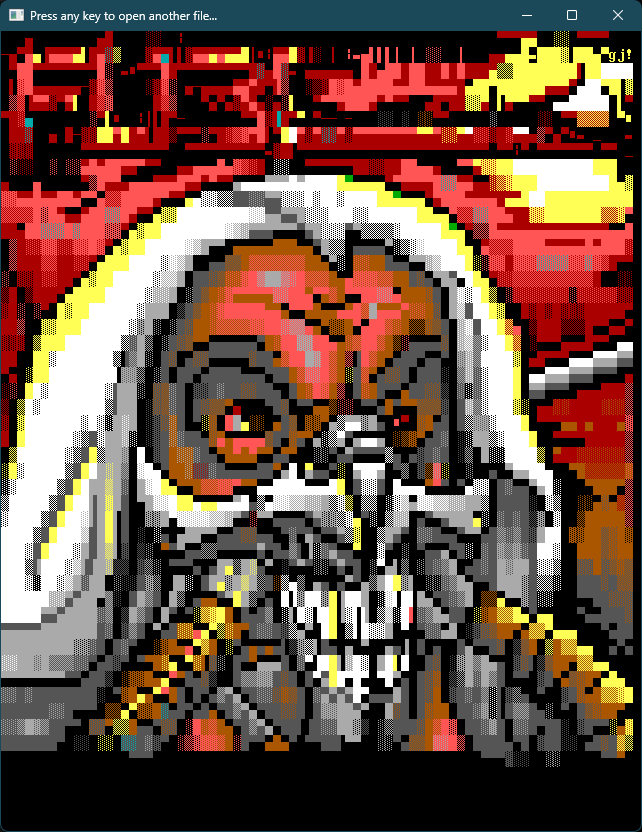
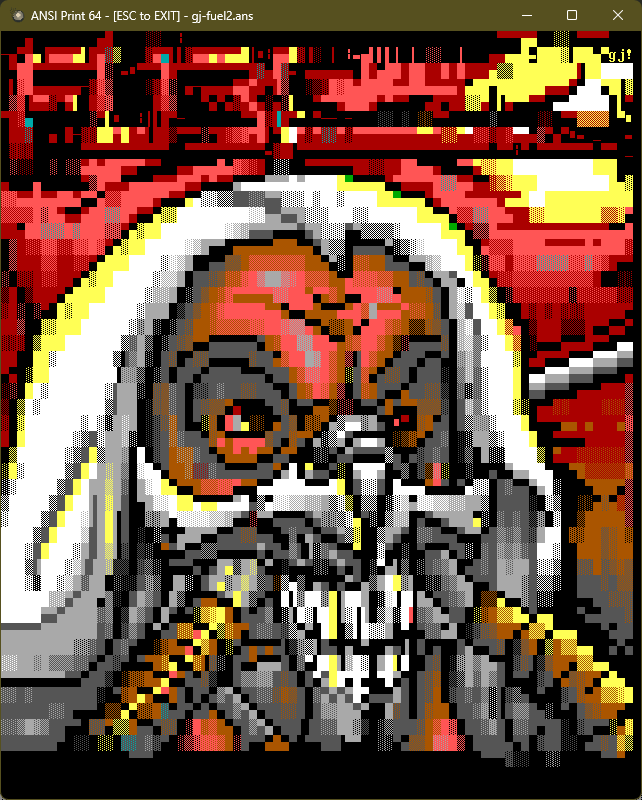
Update screenshots

diff --git a/README.md b/README.md
@@ -5,6 +5,7 @@ This is an [ANSI Escape Sequence](https://en.wikipedia.org/wiki/ANSI_escape_code
 ![Screenshot](screenshots/screenshot1.png)
 ![Screenshot](screenshots/screenshot2.png)
 ![Screenshot](screenshots/screenshot3.png)
+![Screenshot](screenshots/screenshot4.png)
 
 ## GOALS
 
